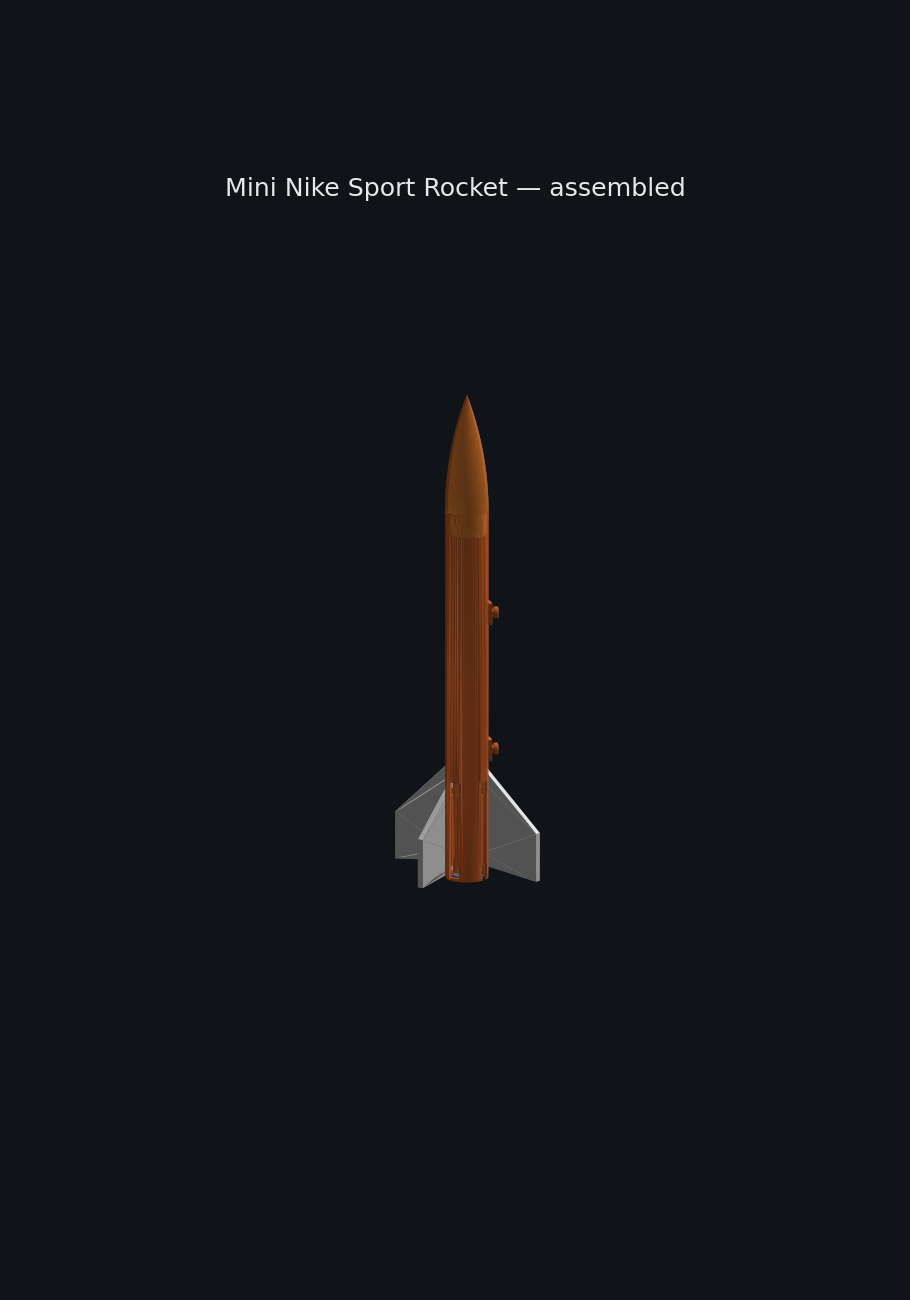
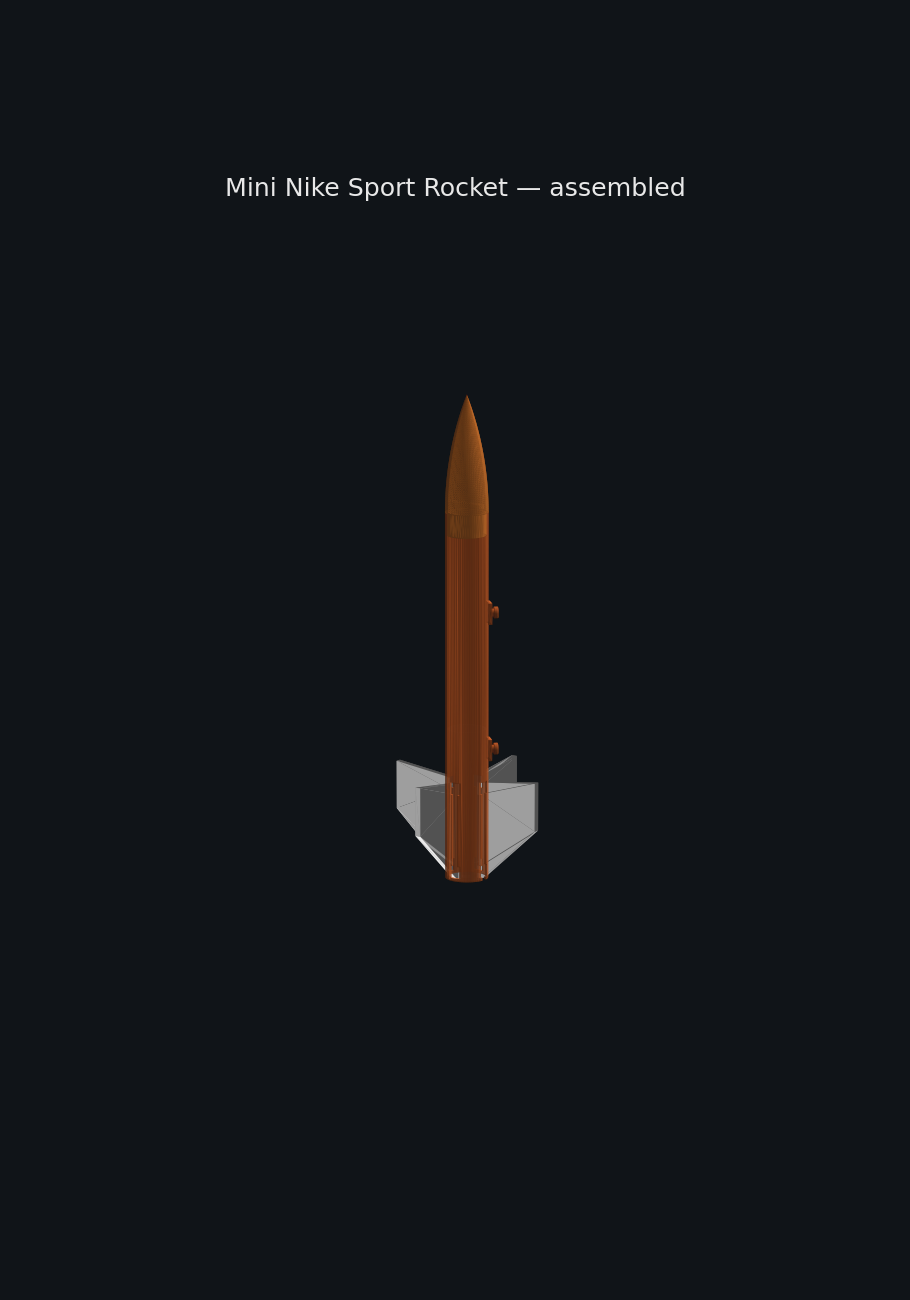
Fix assembly render: correct fin chord orientation and center thickness on radial plane

Changed region(s): [[0.5231, 0.5846, 0.6154, 0.6769], [0.4308, 0.5846, 0.4923, 0.6769]]

diff --git a/scripts/render_assembly.py b/scripts/render_assembly.py
@@ -63,34 +63,24 @@ def build_assembly() -> list[tuple[np.ndarray, np.ndarray]]:
     fc = load_stl(f"{stl}/fin_can.stl")
     fc = transform(fc, translate=(0, 0, R.RETAINER_LIP_THK))
     parts.append((fc, fc_gray))
-    # Four fins: fin was printed flat (thickness in Z). Orient vertical,
-    # slide forward to locked position (wings fully under narrow slot).
-    # Locked root position on body tube: z in [keyhole_z1, keyhole_z1+FIN_ROOT]
-    root_z0 = R.SLOT_AFT_OFFSET + R.SLOT_KEYHOLE_LEN
+    # Four fins. Fin local frame: x=chord (LE=0, TE=FIN_ROOT), y=span
+    # (tab=−FIN_TAB_DEPTH, tip=+FIN_SPAN), z=thickness (0..FIN_THK).
+    # Rocket frame: +Z is up toward nose. Fin root TE should sit at
+    # rocket_z=SLOT_AFT_OFFSET (slot's aft edge) and root LE at
+    # SLOT_AFT_OFFSET+FIN_ROOT (toward nose).
     for i in range(R.FIN_COUNT):
         fin = load_stl(f"{stl}/fin.stl")
-        # In fin local frame:
-        #   x = chord (0..FIN_ROOT at root)
-        #   y = span (−tab_depth..+FIN_SPAN)
-        #   z = thickness (−wing..FIN_THK+wing)
-        # Target placement: fin lies radially outward from body tube, root on
-        # the outer surface at body tube azimuth = i*90°.
-        # Step 1: rotate about X by −90° so +Y in fin becomes +Z outward...
-        # Actually we want fin chord along rocket Z axis and fin span along
-        # rocket radial (+X before azimuth rotation). So:
-        #   fin x (chord)    → rocket +Z  (axial)
-        #   fin y (span/tab) → rocket +X  (radial out) for y>0, −X for tab y<0
-        #   fin z (thick)    → rocket ±Y  (tangential)
-        # Apply: swap axes via rotation. Rotate +90° about Y axis so fin x→z.
-        #   After rotation: new_z = old_x, new_x = -old_z (approximately)
-        # Simpler: construct explicit mapping matrix.
-        t = fin
-        # Remap: (x, y, z) -> (y, z, x) i.e. rocket(X,Y,Z) = fin(y, z, x).
-        t = t[:, :, [1, 2, 0]]
-        # Translate fin chord origin (now in Z) to root_z0, and span origin
-        # so root (y=0) aligns with body tube outer surface (rocket X = BT_OD/2).
-        t = t + np.array([R.BT_OD / 2.0, 0.0, root_z0], dtype=np.float32)
-        # Rotate azimuthally.
+        # Remap axes: rocket(X,Y,Z) = fin(y, z, x).
+        t = fin[:, :, [1, 2, 0]].copy()
+        # Flip chord so fin LE (fin_x=0) maps to the highest z (toward nose).
+        t[:, :, 2] = R.FIN_ROOT - t[:, :, 2]
+        # Center fin thickness on the radial plane (y=0 in rocket frame).
+        t[:, :, 1] -= R.FIN_THK / 2.0
+        # Translate: span origin at body tube outer surface (rocket_X=BT_OD/2),
+        # root TE at rocket_Z=SLOT_AFT_OFFSET.
+        t = t + np.array([R.BT_OD / 2.0, 0.0, R.SLOT_AFT_OFFSET],
+                         dtype=np.float32)
+        # Azimuthal placement.
         t = transform(t, rotate_z_deg=i * 90.0)
         parts.append((t, fin_white))
     return parts
@@ -104,7 +94,10 @@ def render(parts, out_path: str, title: str, elev=12, azim=-55, figsize=(7, 10))
     light /= np.linalg.norm(light)
 
     all_pts = []
-    for tris, base in parts:
+    # Body tube is the first part — render it at reduced alpha so the fins
+    # seated in its slots are visible.
+    alphas = [0.75] + [1.0] * (len(parts) - 1)
+    for (tris, base), alpha in zip(parts, alphas):
         v0, v1, v2 = tris[:, 0], tris[:, 1], tris[:, 2]
         normals = np.cross(v1 - v0, v2 - v0)
         lengths = np.linalg.norm(normals, axis=1, keepdims=True)
@@ -112,7 +105,7 @@ def render(parts, out_path: str, title: str, elev=12, azim=-55, figsize=(7, 10))
         normals = normals / lengths
         shade = np.clip(0.4 + 0.7 * (normals @ light), 0.35, 1.0)
         fc = np.clip(base[None, :] * shade[:, None], 0, 1)
-        fc = np.concatenate([fc, np.ones((len(tris), 1), dtype=np.float32)], axis=1)
+        fc = np.concatenate([fc, np.full((len(tris), 1), alpha, dtype=np.float32)], axis=1)
         coll = Poly3DCollection(tris, facecolors=fc, edgecolors="none", linewidths=0)
         ax.add_collection3d(coll)
         all_pts.append(tris.reshape(-1, 3))
